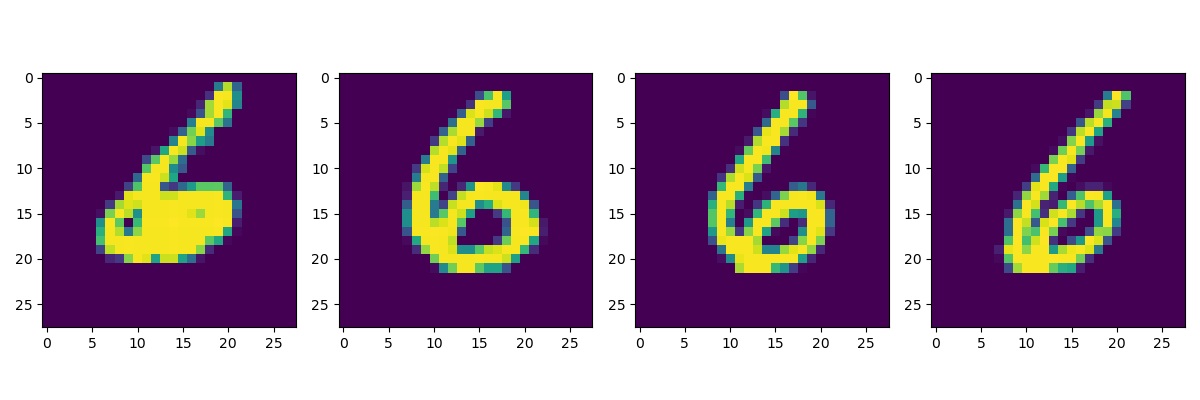
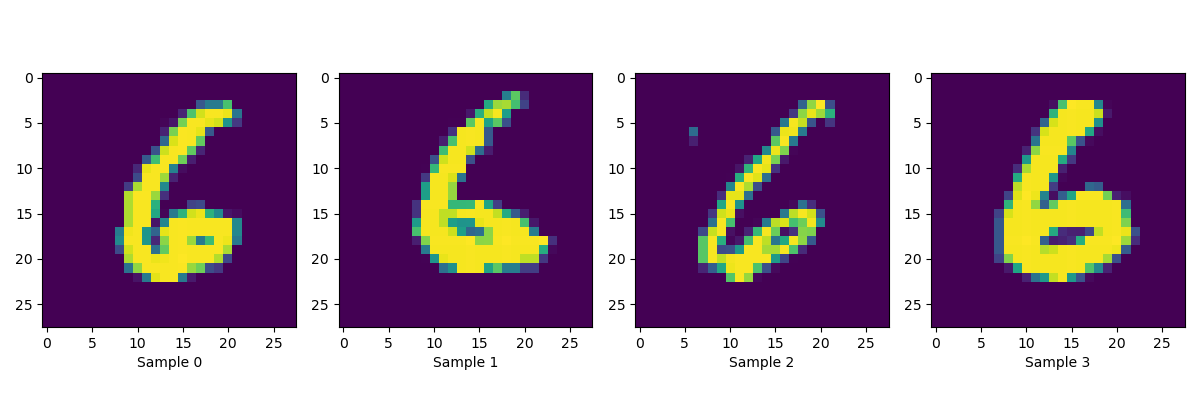
update

diff --git a/autoencoder.py b/autoencoder.py
@@ -26,7 +26,8 @@ x = tf.keras.layers.Conv2D(8, (3, 3), activation='relu', padding='same')(x)
 x = tf.keras.layers.UpSampling2D((2, 2))(x)
 decoded = tf.keras.layers.Conv2D(1, (3, 3), activation='sigmoid', padding='same')(x)
 autoencoder = tf.keras.models.Model(input_img, decoded)
-autoencoder.summary()
+tf.keras.utils.plot_model(autoencoder, "./img/autoencoder_structure.png",
+                          show_shapes = True, show_layer_names = False)
 # compile
 autoencoder.compile(optimizer='adam', loss='binary_crossentropy')
 # train

diff --git a/eda.py b/eda.py
@@ -13,6 +13,7 @@ for i in range(4):
     idx = np.random.randint(0, 4137)
     plt.subplot(1, 4, i+1)
     plt.imshow(X_train_digit[idx])
+    plt.xlabel("Sample {}".format(i))
     i += 1
     pass
 plt.tight_layout()
